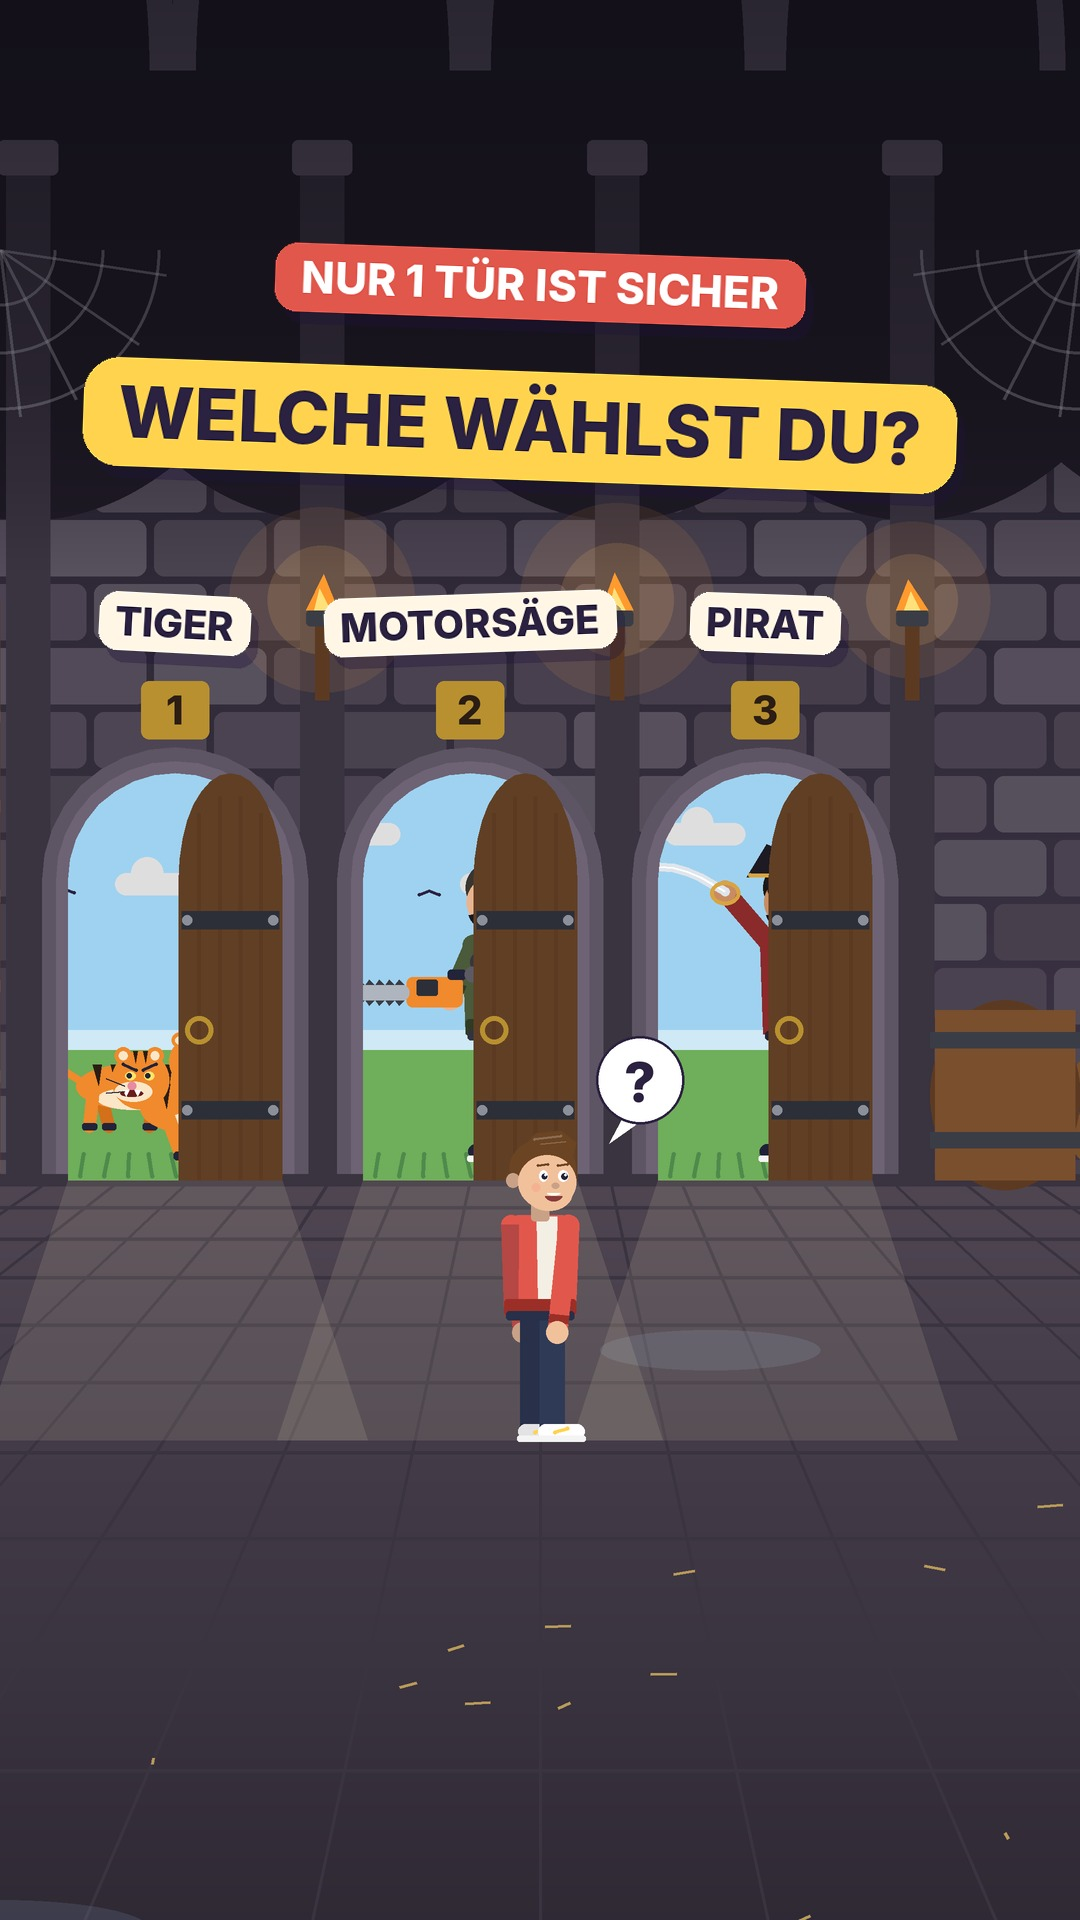
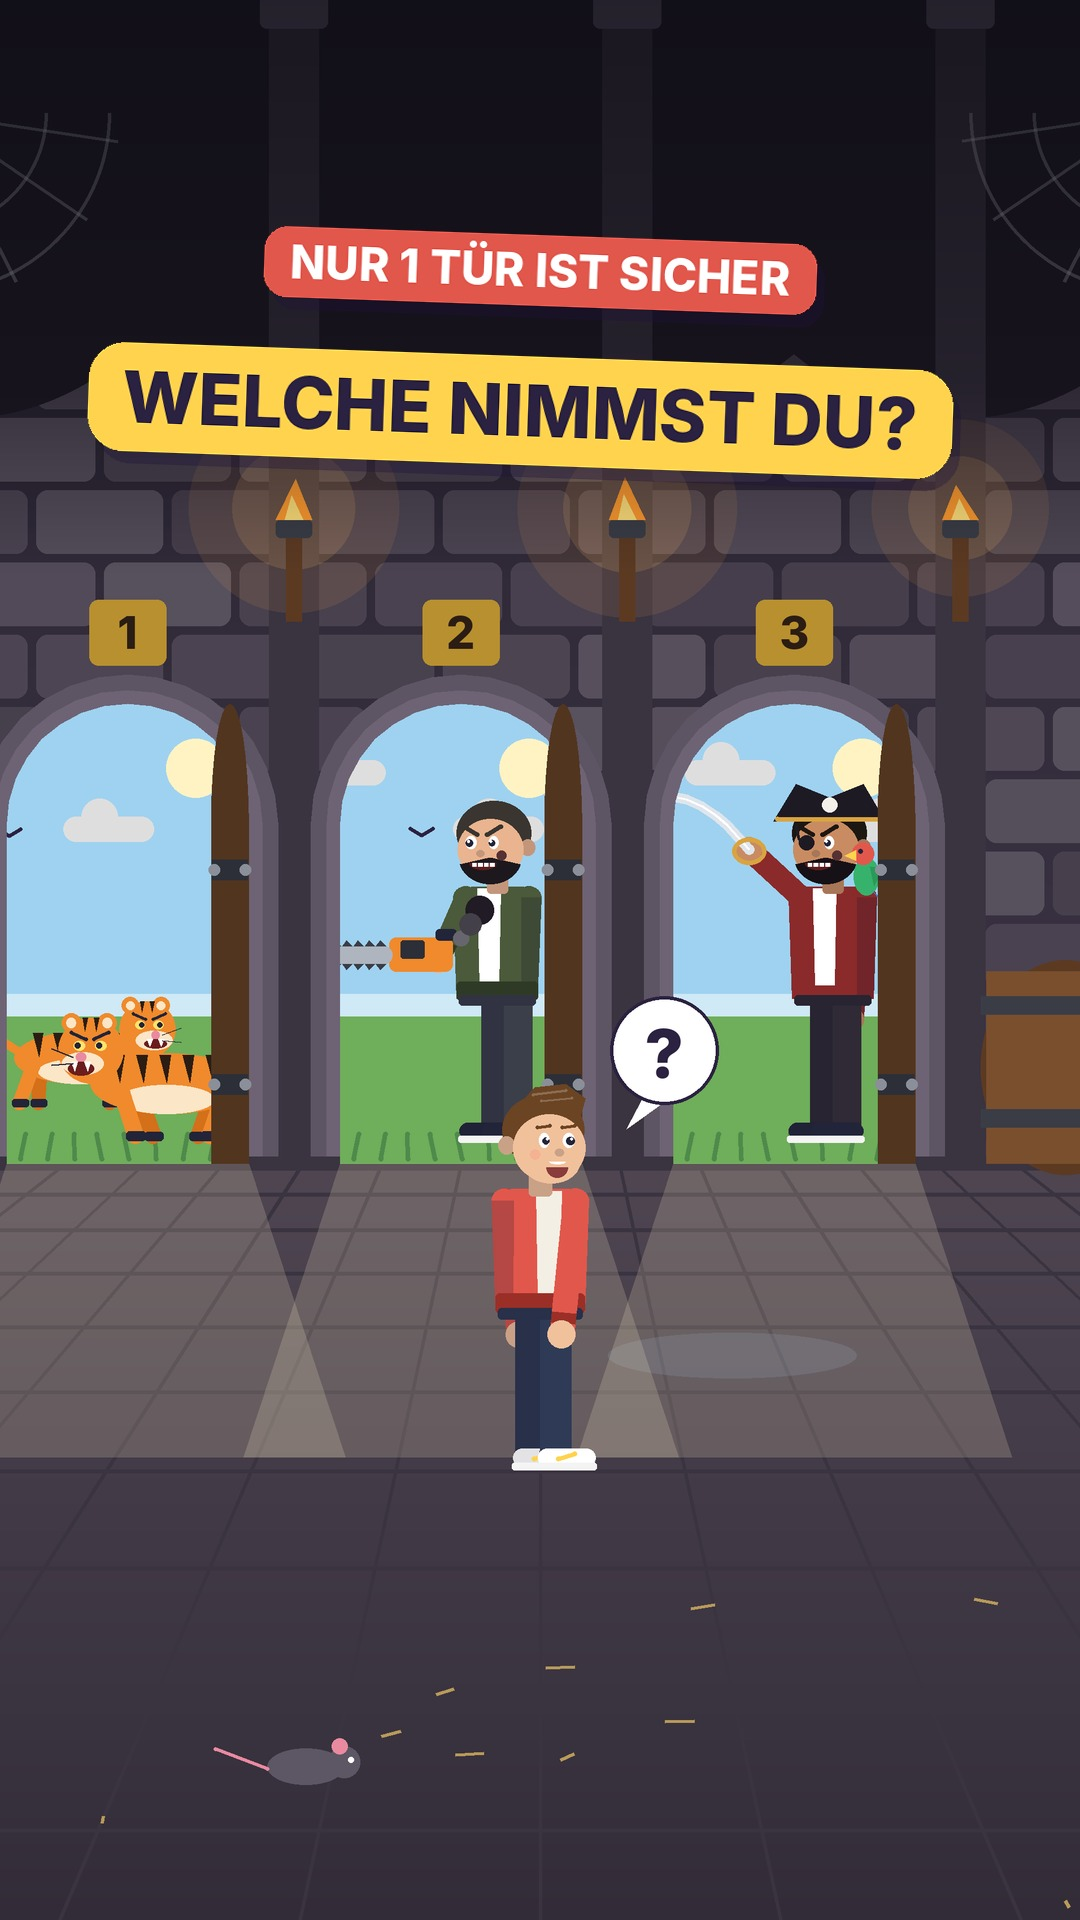
Video #5: viral-oriented cover and caption (5 hashtags)
Cover shows all three open doors with the dangers visible under a
challenge hook; caption asks viewers to comment 1, 2 or 3.

Claude-Session: https://claude.ai/code/session_01McNdgYWSkicRk1pCfdiRPe

diff --git a/videos/05_tueren/make_cover_viral.py b/videos/05_tueren/make_cover_viral.py
@@ -1,0 +1,41 @@
+"""Viral-style cover for riddle #5 (1080x1920): challenge hook, all three dangers visible, no spoiler."""
+import os, sys, importlib.util
+HERE = os.path.dirname(os.path.abspath(__file__))
+sys.path.insert(0, os.path.join(HERE, "..", "..", "engine"))
+from toolkit import *  # noqa
+spec = importlib.util.spec_from_file_location("mv", os.path.join(HERE, "make_video.py"))
+mv = importlib.util.module_from_spec(spec); spec.loader.exec_module(mv)
+
+
+def fit(text, max_w, size):
+    while font(size).getbbox(text)[2] + 70 > max_w and size > 30:
+        size -= 2
+    return size
+
+
+def cover():
+    def actors(cv):
+        mv.cellar_life(cv, 1.2)
+        mv.torches(cv, 0.3)
+        mv.draw_doors(cv, 0.55, [0.85, 0.85, 0.85])
+        draw_person(cv, 540, 1450, mv.DU, face=1, h=330, talk=1.0)
+        speech_bubble(cv, 650, 1080, 48, "?")
+
+    img, view = mv.render_world_frame((540, 1000, 1700), actors)
+    shade = vgradient(OUT_W, OUT_H, [(0, "#0b0a12"), (1, "#0b0a12")])
+    mask = vgradient(OUT_W, OUT_H, [(0, "#b0b0b0"), (0.2, "#707070"), (0.3, "#000000"), (1, "#000000")]).convert("L")
+    img = Image.composite(shade, img, mask)
+    pill(img, OUT_W / 2, 270, "NUR 1 TÜR IST SICHER", 46, bg="#e2574c", fg="#ffffff", pad=(26, 12), rot=-2)
+    l1 = "WELCHE NIMMST DU?"
+    pill(img, OUT_W / 2 - 20, 410, l1, fit(l1, 880, 96), bg="#ffd34d", rot=-2)
+    return img
+
+
+if __name__ == "__main__":
+    UI_LOG.clear()
+    img = cover()
+    for lab, *box in UI_LOG:
+        v = safe_violation(*box)
+        print(("SAFE-ZONE " + "/".join(v)) if v else "ok", lab, [int(b) for b in box])
+    img.save(os.path.join(HERE, "cover.png"))
+    img.save(os.path.join(HERE, "cover.jpg"), quality=92)
